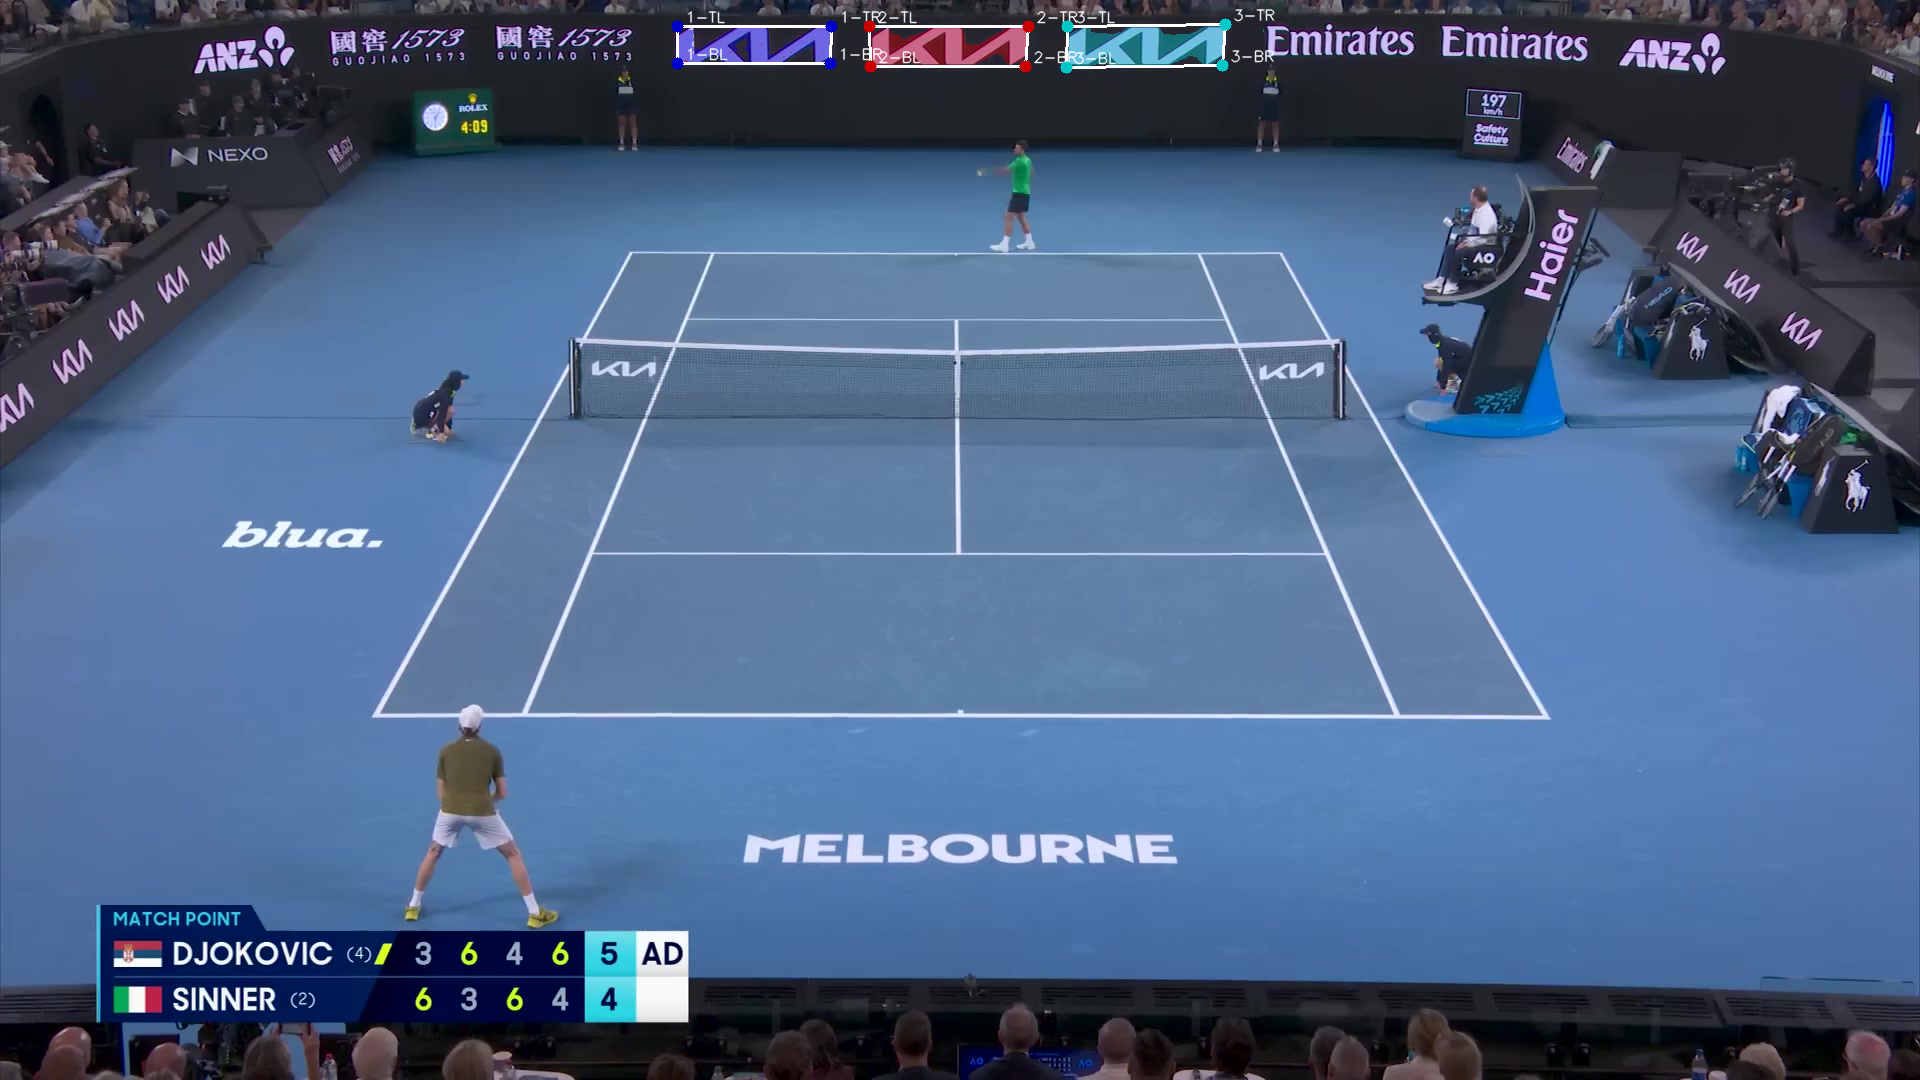
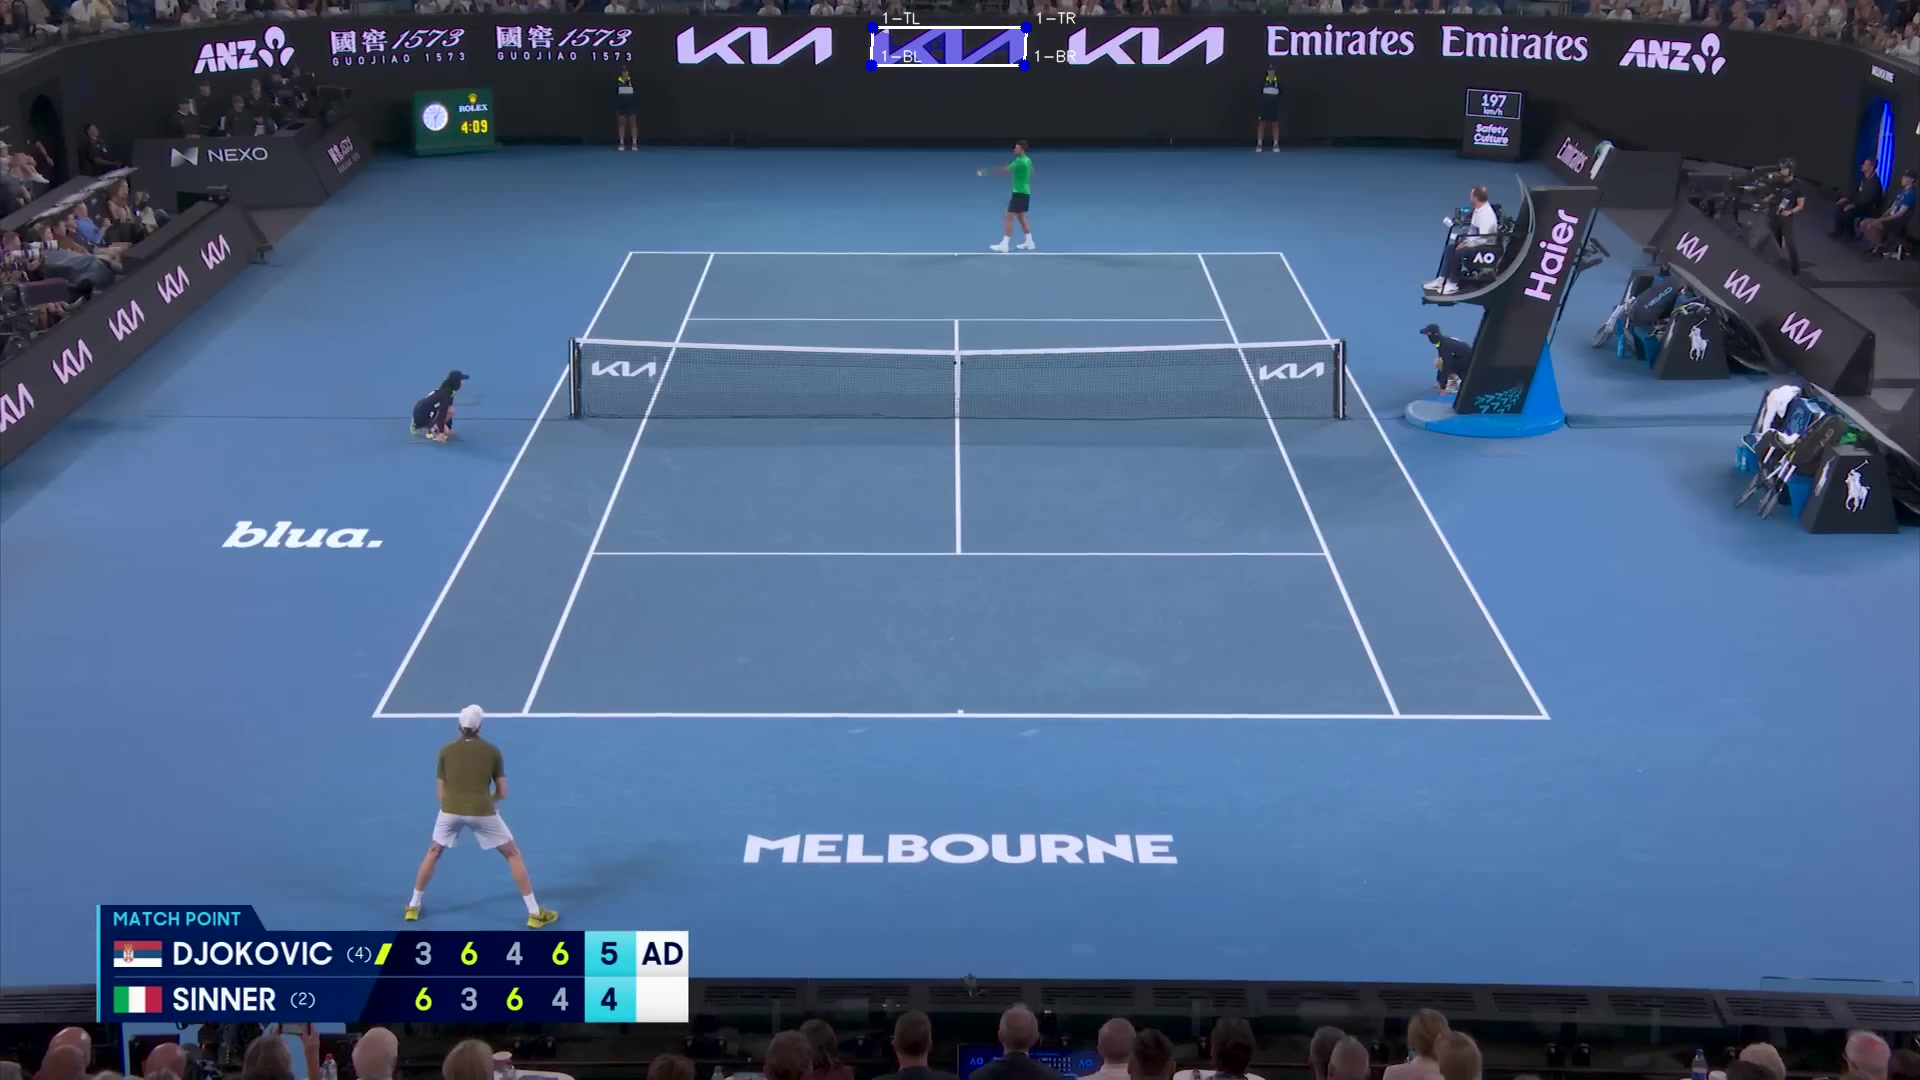
change the color to not affect hue during blending

Changed region(s): [[0.3438, 0.0, 0.6562, 0.0611]]

diff --git a/banner_segment.py b/banner_segment.py
@@ -484,12 +484,7 @@ def composite_logo(frame: np.ndarray, corners: np.ndarray, logo_path: str,
             (new_l - new_l_lo) * scale + orig_l_lo, 0, 255)
         warped_rgb = cv2.cvtColor(new_lab.astype(np.uint8), cv2.COLOR_LAB2BGR)
 
-        # Subtle surface color tint
-        tint = 0.10
-        warped_f = warped_rgb.astype(np.float32)
-        warped_f[logo_pixels] = warped_f[logo_pixels] * (1 - tint) + bg_color.astype(np.float32) * tint
-        warped_rgb = np.clip(warped_f, 0, 255).astype(np.uint8)
-        print(f"  Remapped L [{new_l_lo:.0f},{new_l_hi:.0f}] → [{orig_l_lo:.0f},{orig_l_hi:.0f}], tint={tint:.0%}")
+        print(f"  Remapped L [{new_l_lo:.0f},{new_l_hi:.0f}] → [{orig_l_lo:.0f},{orig_l_hi:.0f}]")
 
     # Soften alpha edges for smoother blending
     warped_alpha = cv2.GaussianBlur(warped_alpha, (5, 5), 1.0)
